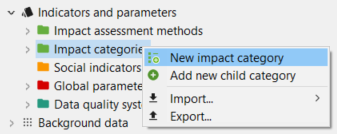
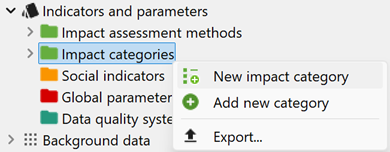
minor updates

diff --git a/src/prod_sys/model_graph.md b/src/prod_sys/model_graph.md
@@ -14,7 +14,7 @@ If you open the model graph tab, you will see the reference process of the produ
 
 To show elementary flows and adding or removing flows directly within the graph, right-click on the graph, click on "Settings" and then check "Show elementary flows" and "Enable process editing".
 
-![](../media/graph_settings.jpg)
+![](../media/graph_settings.png)
 <br>_Activated settings in the model graph._
 
 Connections between processes are visualized as lines. Those connections or the processes themselves can be deleted. Note, that alterations to the model have an influence on the entire product system and that only connected processes will contribute to the product system's calculation.
@@ -111,12 +111,12 @@ By right-clicking on the background in the model graph, the following options wi
 ![](../media/model_graph_min_max_new.png)
 <br>_Model graph - Maximize_
 
-- **Settings**: In the settings pop-up window, you can personalize the graph's theme, choosing between dark or light mode, adjust the shape of connection lines, enable the display of elementary flows, and activate in-graph process editing.
+- **Settings**: In the settings pop-up window, you can adjust the shape of connection lines, enable the display of elementary flows, and activate in-graph process editing.
 
-![](../media/model_graph_settings.png)
+![](../media/graph_settings.png)
 
 
-_**Note**:_ As we’ve seen, you can use the model graph "settings" to switch between a light and a dark theme. Themes can also be modified by editing the .css files under /openLCAdata-1.4/graph-themes. To reset the themes to the original one, simply delete (or rename) this folder before launching openLCA. In addition, the colours of the model graph elements marked with #model (note that #sankey, refers to the Sankey diagram) can be modified by changing the hexadecimal colour codes (using Google colour selector for example). It is very important to keep the same syntax of the document (no changes can be made outside of the bracket {}).
+_**Note**:_ Themes can be modified by editing the .css files under /openLCAdata-1.4/graph-themes. To reset the themes to the original one, simply delete (or rename) this folder before launching openLCA. In addition, the colours of the model graph elements marked with #model (note that #sankey, refers to the Sankey diagram) can be modified by changing the hexadecimal colour codes (using Google colour selector for example). It is very important to keep the same syntax of the document (no changes can be made outside of the bracket {}).
 
 - **Save as image**: Saves an image of the model graph as .png file
 

diff --git a/src/lcia_methods/importing_lcia_methods.md b/src/lcia_methods/importing_lcia_methods.md
@@ -4,11 +4,11 @@
 
 ### Download LCIA methods from Nexus
 
-[Nexus](https://nexus.openlca.org) databases do not always include LCIA methods, allowing users to select their preferred method. There is one overall LCIA method pack that we provide to be suited for many different databases (that also includes normalisation and weighting when the method provide them) but there are also other methods specific for specific databases.
+[Nexus](https://nexus.openlca.org) databases do not always include LCIA methods, allowing users to select their preferred method. There is one overall LCIA method pack (the [openLCA LCIA methods pack](https://nexus.openlca.org/database/openLCA%20LCIA%20methods)) that we provide to be suited for many different databases (that also includes normalisation and weighting when the method provides them).
 
 ![](../media/lcia_methods_import.png) 
 
-The table below provides information about the most commonly used databases available on [Nexsus](http://www.openlca.org/download#methods). You can see if the database is compatible with openLCA method pack and if a proprietary method is available to download (follow the instruction on [openLCA Nexus](../resources/nexus.md) section -"Accessing databases from openLCA Nexus"- to download a database or method pack). 
+However, some databases require their own specific method pack. In Nexus, you'll find detailed information for every specific case. The table below provides information about the most commonly used databases available on [Nexus](http://www.openlca.org/download#methods). You can see if the database is compatible with the openLCA method pack and if a proprietary method is available to download. To learn how to download a database or method pack from openLCA Nexus, follow the instructions on [this section](../resources/nexus.md) of the manual. 
 
 |              **Database**              | **Compatible with openLCA method pack** | **Proprietary method available** |
 |:--------------------------------------:|:---------------------------------------:|:--------------------------------:|

diff --git a/src/lcia_methods/creating_new_impact_assessment_method.md b/src/lcia_methods/creating_new_impact_assessment_method.md
@@ -4,7 +4,7 @@
 
 To create a new life cycle impact assessment method:
 
-1. Right-click on the "Impact assessment methods" child category.
+1. Right-click on the "Impact assessment methods" category.
 2. Select "New LCIA method". 
 
 ![](../media/new_lcia_method.png)
@@ -22,10 +22,9 @@ Moreover, you can also create impact assessment categories. This might be helpfu
 
 To do so:
 
-1. Right-click on the "Impact assessment categories" child category.
+1. Right-click on the "Impact assessment categories" category.
 
-
-2. Select "New LCIA method".
+2. Select "New impact category".
 
 ![](../media/create_impact_category_1.png)
 
@@ -38,7 +37,7 @@ To do so:
 
 To see how to add impact categories in the impact assessment method window, characterization factors, etc, see the section below.
 
-### Creating and addung characterization factors
+### Creating and adding characterization factors
 
 In some methods maybe the characterization factors of an substance are missing. Hence you can add (or modify existing) characterization factors (CFs) in a LCIA method.
 

diff --git a/src/lcia_methods/impact_categories_tab_contents.md b/src/lcia_methods/impact_categories_tab_contents.md
@@ -18,11 +18,9 @@ The contents of the impact categories window will be explained in the following.
 
 <details open><summary><b> General information</b></summary>
 
-In this section you can:
+Here you can view and modify the name of the category, add a description, a reference unit, additional details or [tags](../cheat/tags.md), as well as:
 
-Here you can view and modify the name of the category, add a description, a reference unit, additional details or [tags](../cheat/tags.md), along with:
-
-- Adding a source from the sources in the database (see "[database elements](../databases/database_elements.md)")
+- Adding a source in the database (see "[database elements](../databases/database_elements.md)")
 - Adding a code (i.e., a short name for the category, useful in result views)
 - Choosing an impact direction
 

diff --git a/src/lcia_methods/impact_methods_tab_contents.md b/src/lcia_methods/impact_methods_tab_contents.md
@@ -5,9 +5,7 @@ In openLCA versions from 1.x to the latest release, you could edit and create im
 
 <details open><summary><b> General information </b></summary>
 
-In this section you can:
-
-Here you can view and modify the name of the methog, add a description, additional details or [tags](../cheat/tags.md), along with:
+Here you can view and modify the name of the method, add a description, additional details or [tags](../cheat/tags.md), as well as:
 
 - Adding a source from the sources in the database. If unavailable, create a new source as described in "[Database elements](../databases/database_elements.md)".
 - Adding a code (i.e., a short name for the category, useful in result views).

diff --git a/src/SUMMARY.md b/src/SUMMARY.md
@@ -27,7 +27,14 @@
 
 -----------	
 # The basics for openLCA
-- [Running openLCA for the first time](./running_olca_for_first_time.md)
+- [Running openLCA for the first time](running_olca_for_first_time.md)
+	- [Toolbar: File](toolbar/README.md)
+	- [Toolbar: Database](toolbar/tool_database.md)
+	- [Toolbar: Tools](toolbar/tool_tools.md)
+	- [Toolbar: Help](toolbar/tool_help.md)
+	- [openLCA search function](toolbar/search_function.md)
+	- [Using the editor function](toolbar/)
+
 - [Databases](databases/README.md)
 	- [Database elements](databases/database_elements.md)
 	- [Creating a new database from scratch](databases/create_database.md)

diff --git a/src/updates.md b/src/updates.md
@@ -6,9 +6,10 @@ In this section you can check what the major manual updates were about and when 
 
 - Updated sections affected by the release of openLCA new version 2.4:
     - [Databases](./databases/README.md)
+    - [Check Ebyan files]
+- Chapters restructured:
+    - [Processes](./processes/README.md) (also updated)
     - [Calculation and Result Analysis](./res_analysis/README.md)
-- [Processes](./processes/README.md) chapter restructured and updated
-- [Calculation and Result Analysis](./res_analysis/README.md) chapter restructured
 - Added [Table of content](./toc.md)
 
 ## 18.12.2014
